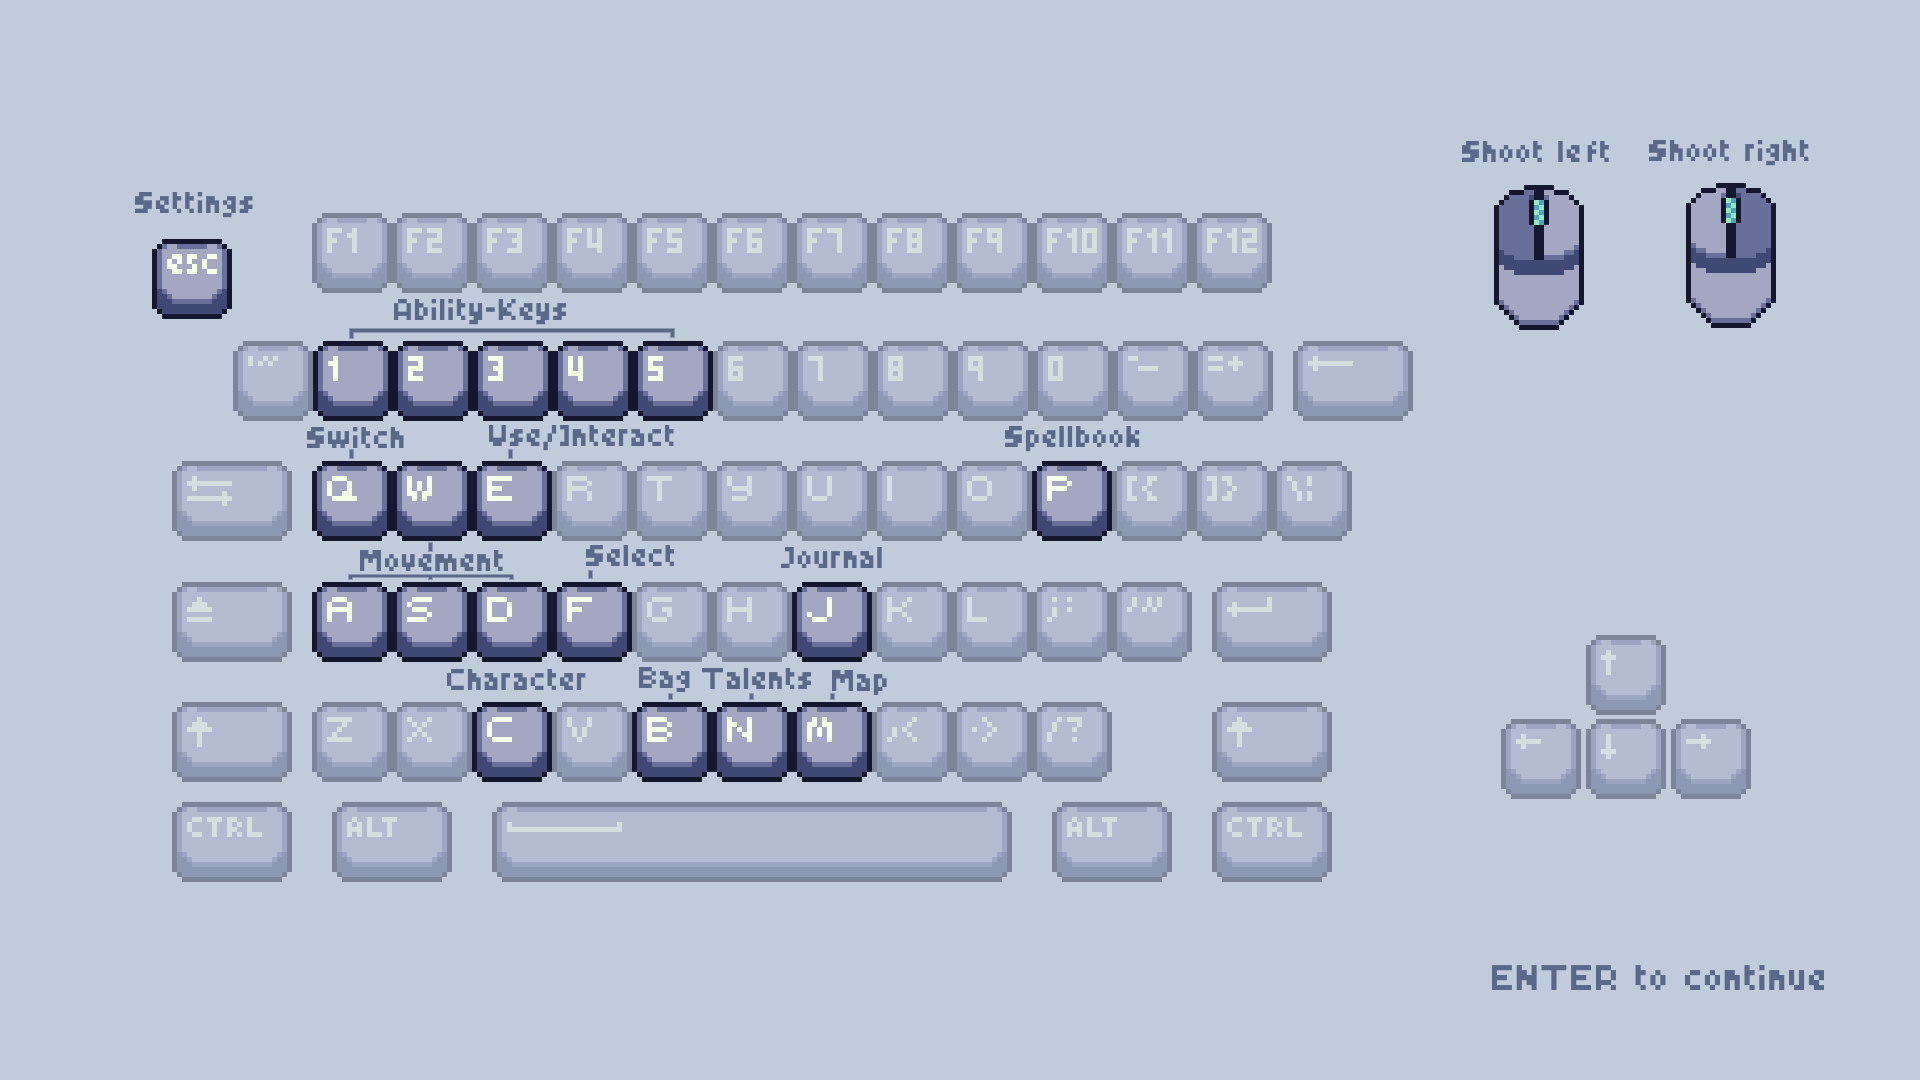
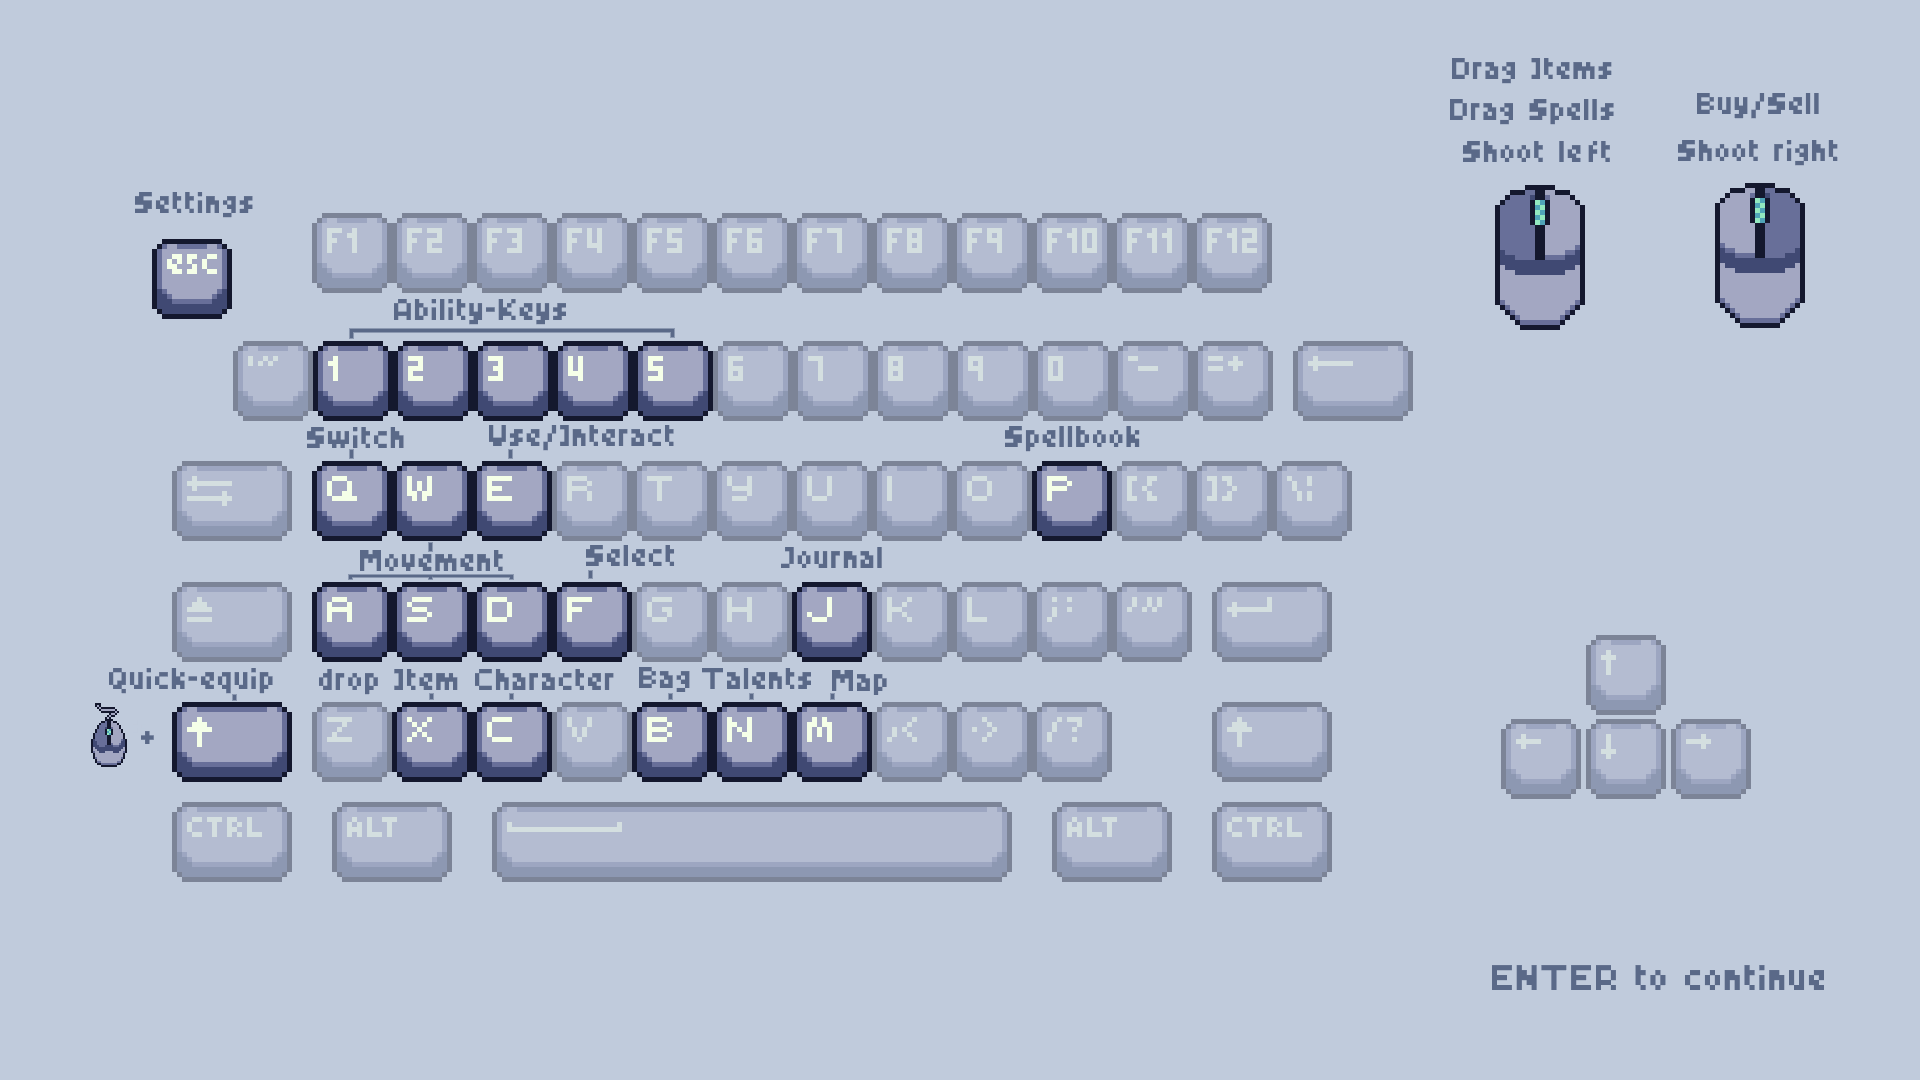
keymap

Changed region(s): [[0.75, 0.0611, 0.9688, 0.3056], [0.0312, 0.6111, 0.3125, 0.7333]]

diff --git a/src/input/InputHandler.java b/src/input/InputHandler.java
@@ -67,7 +67,6 @@ public class InputHandler {
     public void handleKeyType(KeyEvent e) {
         String code = e.getCharacter();
         if (mg.gameState == State.TITLE) {
-
             if (code.equals(("w"))) {
                 mg.sound.playEffectSound(2);
                 mg.ui.commandNum--;
@@ -360,9 +359,11 @@ public class InputHandler {
     public void handleKeyPressed(KeyEvent e) {
         KeyCode code = e.getCode();
         switch (code) {
-            case A -> leftPressed = true;
+            case A, LEFT -> leftPressed = true;
+            case UP, W -> upPressed = true;
+            case DOWN, S -> downPressed = true;
+            case RIGHT, D -> rightPressed = true;
             case C -> c_pressed = true;
-            case D -> rightPressed = true;
             case DIGIT1 -> OnePressed = true;
             case DIGIT2 -> TwoPressed = true;
             case DIGIT3 -> ThreePressed = true;
@@ -376,9 +377,7 @@ public class InputHandler {
             case P -> p_pressed = true;
             case Q -> q_pressed = true;
             case R -> r_pressed = true;
-            case S -> downPressed = true;
             case SHIFT -> shift_pressed = true;
-            case W -> upPressed = true;
             case X -> X_pressed = true;
             case Y -> y_pressed = true;
             default -> {
@@ -389,9 +388,11 @@ public class InputHandler {
     public void handleKeyReleased(KeyEvent e) {
         KeyCode code = e.getCode();
         switch (code) {
-            case A -> leftPressed = false;
+            case A, LEFT -> leftPressed = false;
+            case UP, W -> upPressed = false;
+            case DOWN, S -> downPressed = false;
+            case RIGHT, D -> rightPressed = false;
             case C -> c_pressed = false;
-            case D -> rightPressed = false;
             case DIGIT1 -> OnePressed = false;
             case DIGIT2 -> TwoPressed = false;
             case DIGIT3 -> ThreePressed = false;
@@ -415,9 +416,7 @@ public class InputHandler {
                 q_typed = false;
             }
             case R -> r_pressed = false;
-            case S -> downPressed = false;
             case SHIFT -> shift_pressed = false;
-            case W -> upPressed = false;
             case X -> X_pressed = false;
             case Y -> y_pressed = false;
             default -> {
@@ -435,17 +434,17 @@ public class InputHandler {
         Point mousePos = lastMousePosition;
         if (event.getButton() == MouseButton.PRIMARY) {
             if (mg.gameState == State.PLAY) {
-               if (mg.inventP.combatStatsHitBox.contains(mousePos)) {
-                   mg.inventP.showCombatStats = true;
-               } else if (mg.inventP.effectsHitBox.contains(mousePos)) {
-                   mg.inventP.showCombatStats = false;
-               } else if (mg.showBag && mg.inventP.bagEquipSlotsBox.contains(mousePos)) {
-                   mg.inventP.showBagEquipSlots = !mg.inventP.showBagEquipSlots;
-                   mg.inventP.bagPanelMover.y += mg.inventP.showBagEquipSlots ? -30 : 30;
-               } else if (mg.showBag && mg.inventP.bagSortButton.contains(mousePos)) {
-                   mg.inventP.sortBagsRarity();
-               } else if (mg.showChar && mg.inventP.secondPanelButton.contains(mousePos)) {
-                   mg.inventP.activeCharacterPanel = 2;
+                if (mg.inventP.combatStatsHitBox.contains(mousePos)) {
+                    mg.inventP.showCombatStats = true;
+                } else if (mg.inventP.effectsHitBox.contains(mousePos)) {
+                    mg.inventP.showCombatStats = false;
+                } else if (mg.showBag && mg.inventP.bagEquipSlotsBox.contains(mousePos)) {
+                    mg.inventP.showBagEquipSlots = !mg.inventP.showBagEquipSlots;
+                    mg.inventP.bagPanelMover.y += mg.inventP.showBagEquipSlots ? -30 : 30;
+                } else if (mg.showBag && mg.inventP.bagSortButton.contains(mousePos)) {
+                    mg.inventP.sortBagsRarity();
+                } else if (mg.showChar && mg.inventP.secondPanelButton.contains(mousePos)) {
+                    mg.inventP.activeCharacterPanel = 2;
                 } else if (mg.showChar && mg.inventP.firstPanelButton.contains(mousePos)) {
                     mg.inventP.activeCharacterPanel = 1;
                 } else if (mg.sBar.characterBox.contains(mousePos)) {

diff --git a/src/main/MainGame.java b/src/main/MainGame.java
@@ -67,6 +67,7 @@ import java.util.Random;
 
 public class MainGame {
 
+    private static boolean CHEATS = false;
     public static int SCREEN_WIDTH = 1_920;
     public static int SCREEN_HEIGHT = 1_080;
     public final int HALF_WIDTH;
@@ -358,12 +359,15 @@ public class MainGame {
             gc.setFill(Color.BLACK);
             gc.setFont(ui.maruMonica30);
             gc.fillText(("Draw Time" + (System.nanoTime() - drawStart)), 500, 600);
-            for (SKILL skill : sBar.skills) {
-                skill.actualCoolDown = skill.totalCoolDown;
-            }
-            player.setMana(player.maxMana);
+
             gc.fillText((int) (Player.worldX + 24) / 48 + " " + (int) (Player.worldY + 24) / 48, 500, 700);
             gc.fillText(String.valueOf(TileBasedEffects.activeTile), 500, 750);
+            if (CHEATS) {
+                for (SKILL skill : sBar.skills) {
+                    skill.actualCoolDown = skill.totalCoolDown;
+                }
+                player.setMana(player.maxMana);
+            }
         }
     }
 
@@ -457,10 +461,11 @@ public class MainGame {
             sound.INTRO.setCycleCount(MediaPlayer.INDEFINITE);
             sound.INTRO.play();
         }
-       // debug();
+        // debug();
     }
 
     private void debug() {
+        CHEATS = true;
         for (int i = 0; i < 1; i++) {
             //ENTITIES.add(new ENT_SkeletonWarrior(this, 58 * 48, 44 * 48, 100, Zone.Tutorial));
         }

diff --git a/src/gameworld/quest/quests/QST_Tutorial.java b/src/gameworld/quest/quests/QST_Tutorial.java
@@ -80,7 +80,7 @@ public class QST_Tutorial extends QUEST {
                         nextStage();
                         loadDialogStage(npc, DialogStorage.Tutorial, 20);
                     } else if (choice == 20) {
-                        mg.inventP.addItemToBag(new ITM_SpellBook("Pyro Blast", 2, null, null, DamageType.Arcane));
+                        mg.inventP.addItemToBag(new ITM_SpellBook("Pyro Blast", 2, "A powerful spell that unleashes a powerul fireball upon enemies, dealing big damage upon impact. Enemies hit by Pyroblast also suffer a small burn effect, causing them to take additional fire damage over time.", null, DamageType.Fire));
                         nextStage();
                         loadDialogStage(npc, DialogStorage.Tutorial, 20);
                     }
